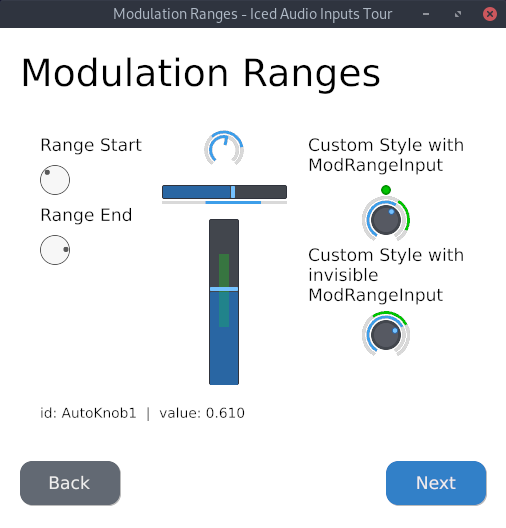
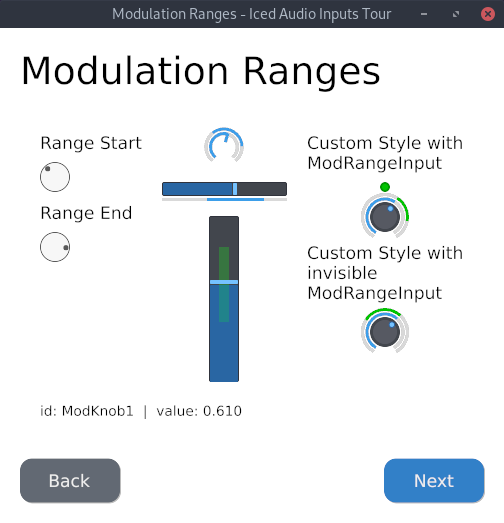
fixed knob name in modulation range example

diff --git a/examples/inputs_tour_steps/step_mod_ranges.rs b/examples/inputs_tour_steps/step_mod_ranges.rs
@@ -14,8 +14,8 @@ pub enum ModRangesID {
     Knob1,
     HSlider1,
     VSlider1,
-    AutoKnob1,
-    AutoKnob2,
+    ModKnob1,
+    ModKnob2,
     ModRangeInput1,
     ModRangeInput2,
 }
@@ -88,7 +88,7 @@ impl Default for ModRanges {
             ),
             
             knob_auto1_state: knob::State::new(
-                float_range.create_param_default(ModRangesID::AutoKnob1),
+                float_range.create_param_default(ModRangesID::ModKnob1),
             )
             .modulation_range(ModulationRange::default()),
 
@@ -97,7 +97,7 @@ impl Default for ModRanges {
             ),
             
             knob_auto2_state: knob::State::new(
-                float_range.create_param_default(ModRangesID::AutoKnob2),
+                float_range.create_param_default(ModRangesID::ModKnob2),
             )
             .modulation_range(ModulationRange::default()),
 
@@ -187,7 +187,7 @@ impl ModRanges {
                         );
                     }
 
-                    ModRangesID::AutoKnob1 => {
+                    ModRangesID::ModKnob1 => {
                         self.output_text = crate::info_text_f32(
                             id,
                             self.float_range
@@ -222,7 +222,7 @@ impl ModRanges {
                         }
                     }
 
-                    ModRangesID::AutoKnob2 => {
+                    ModRangesID::ModKnob2 => {
                         self.output_text = crate::info_text_f32(
                             id,
                             self.float_range
